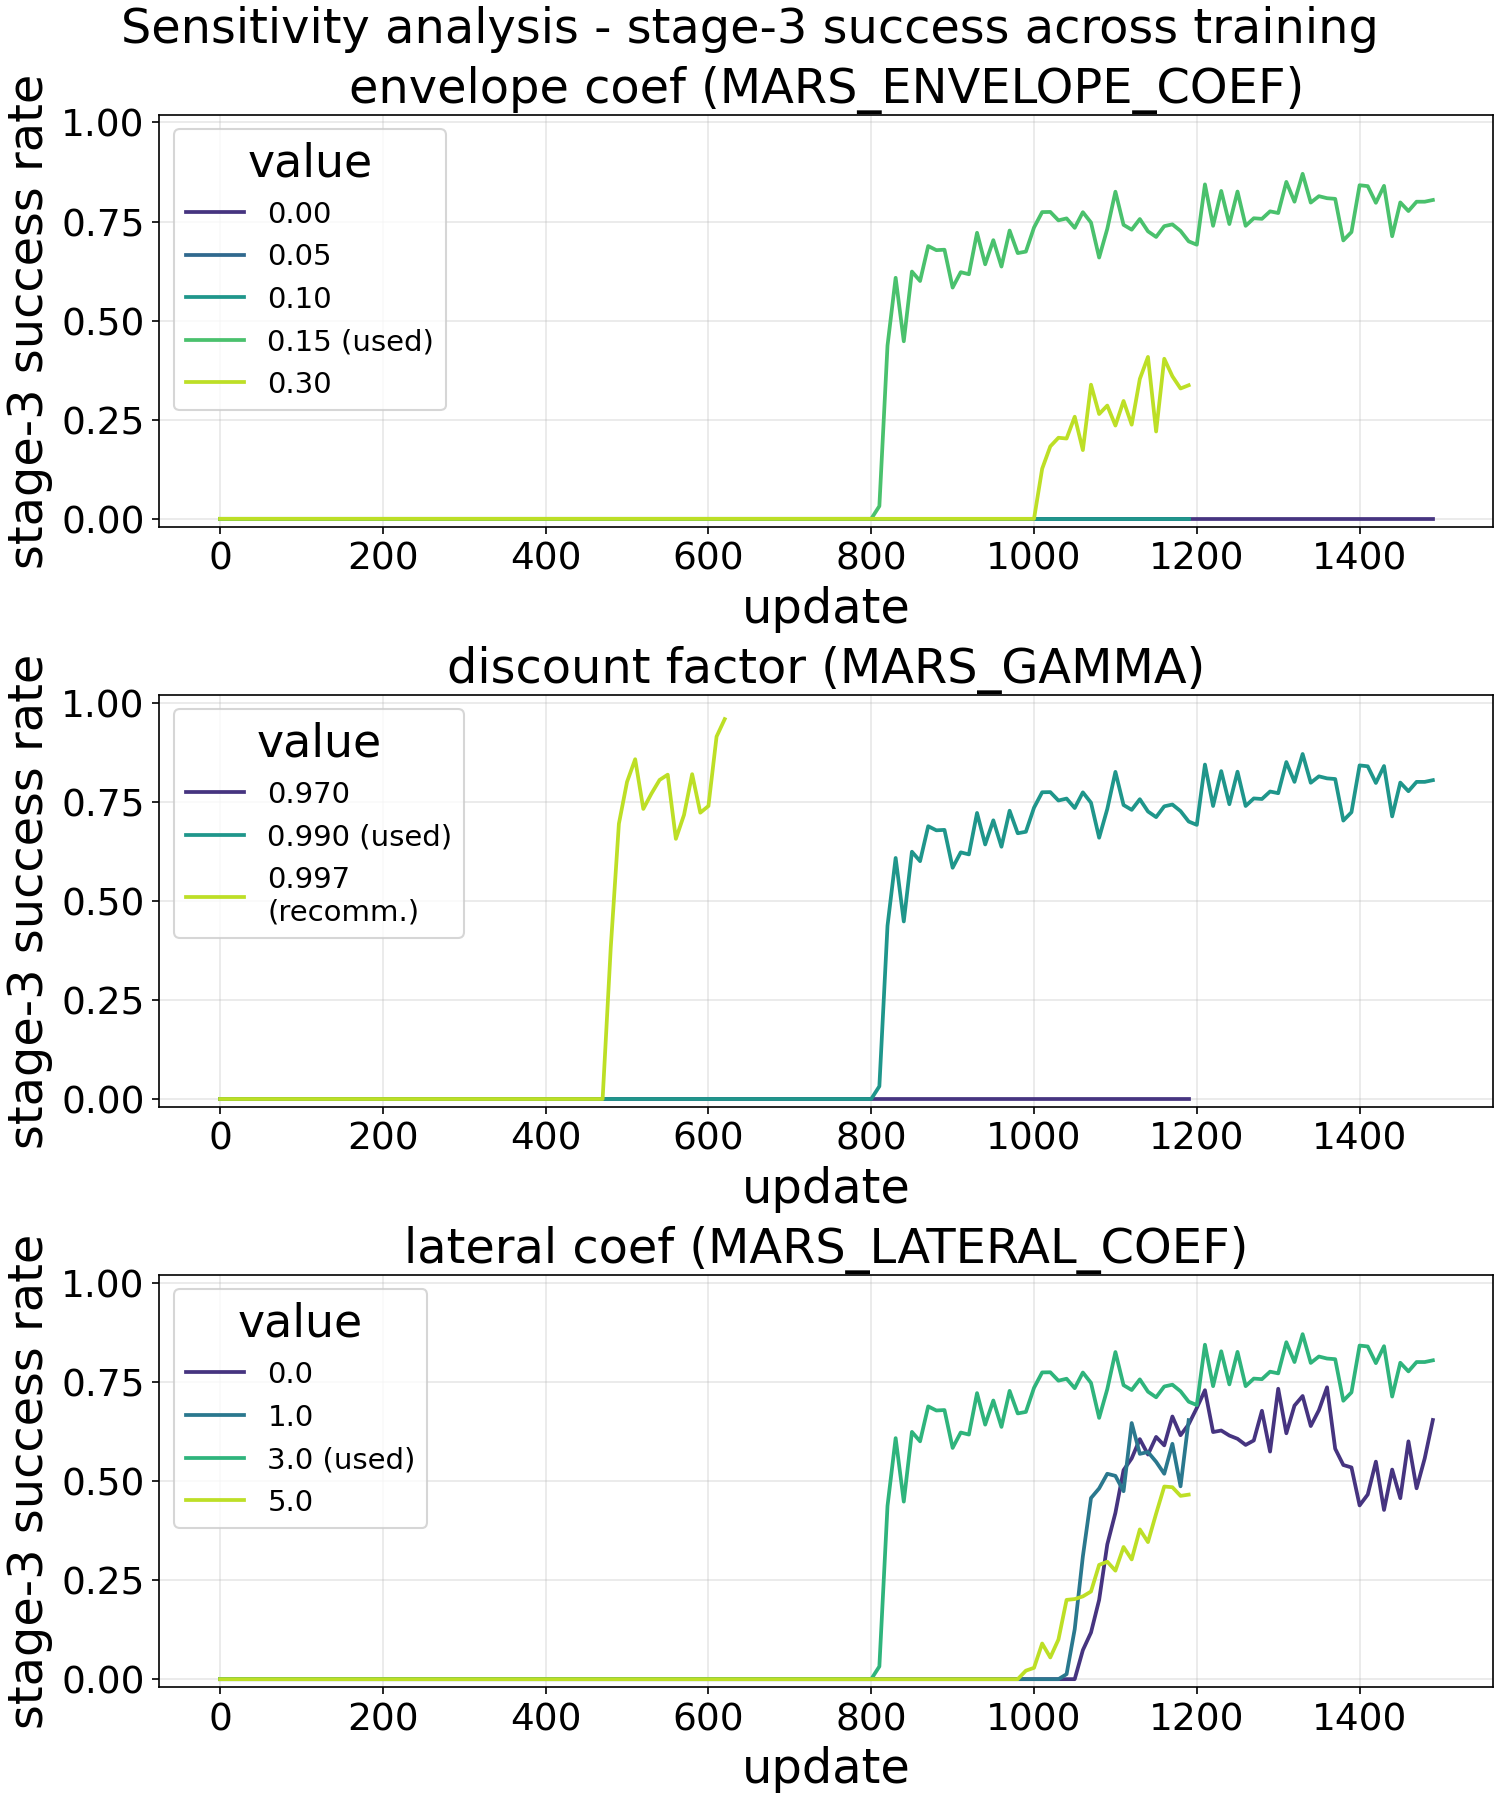
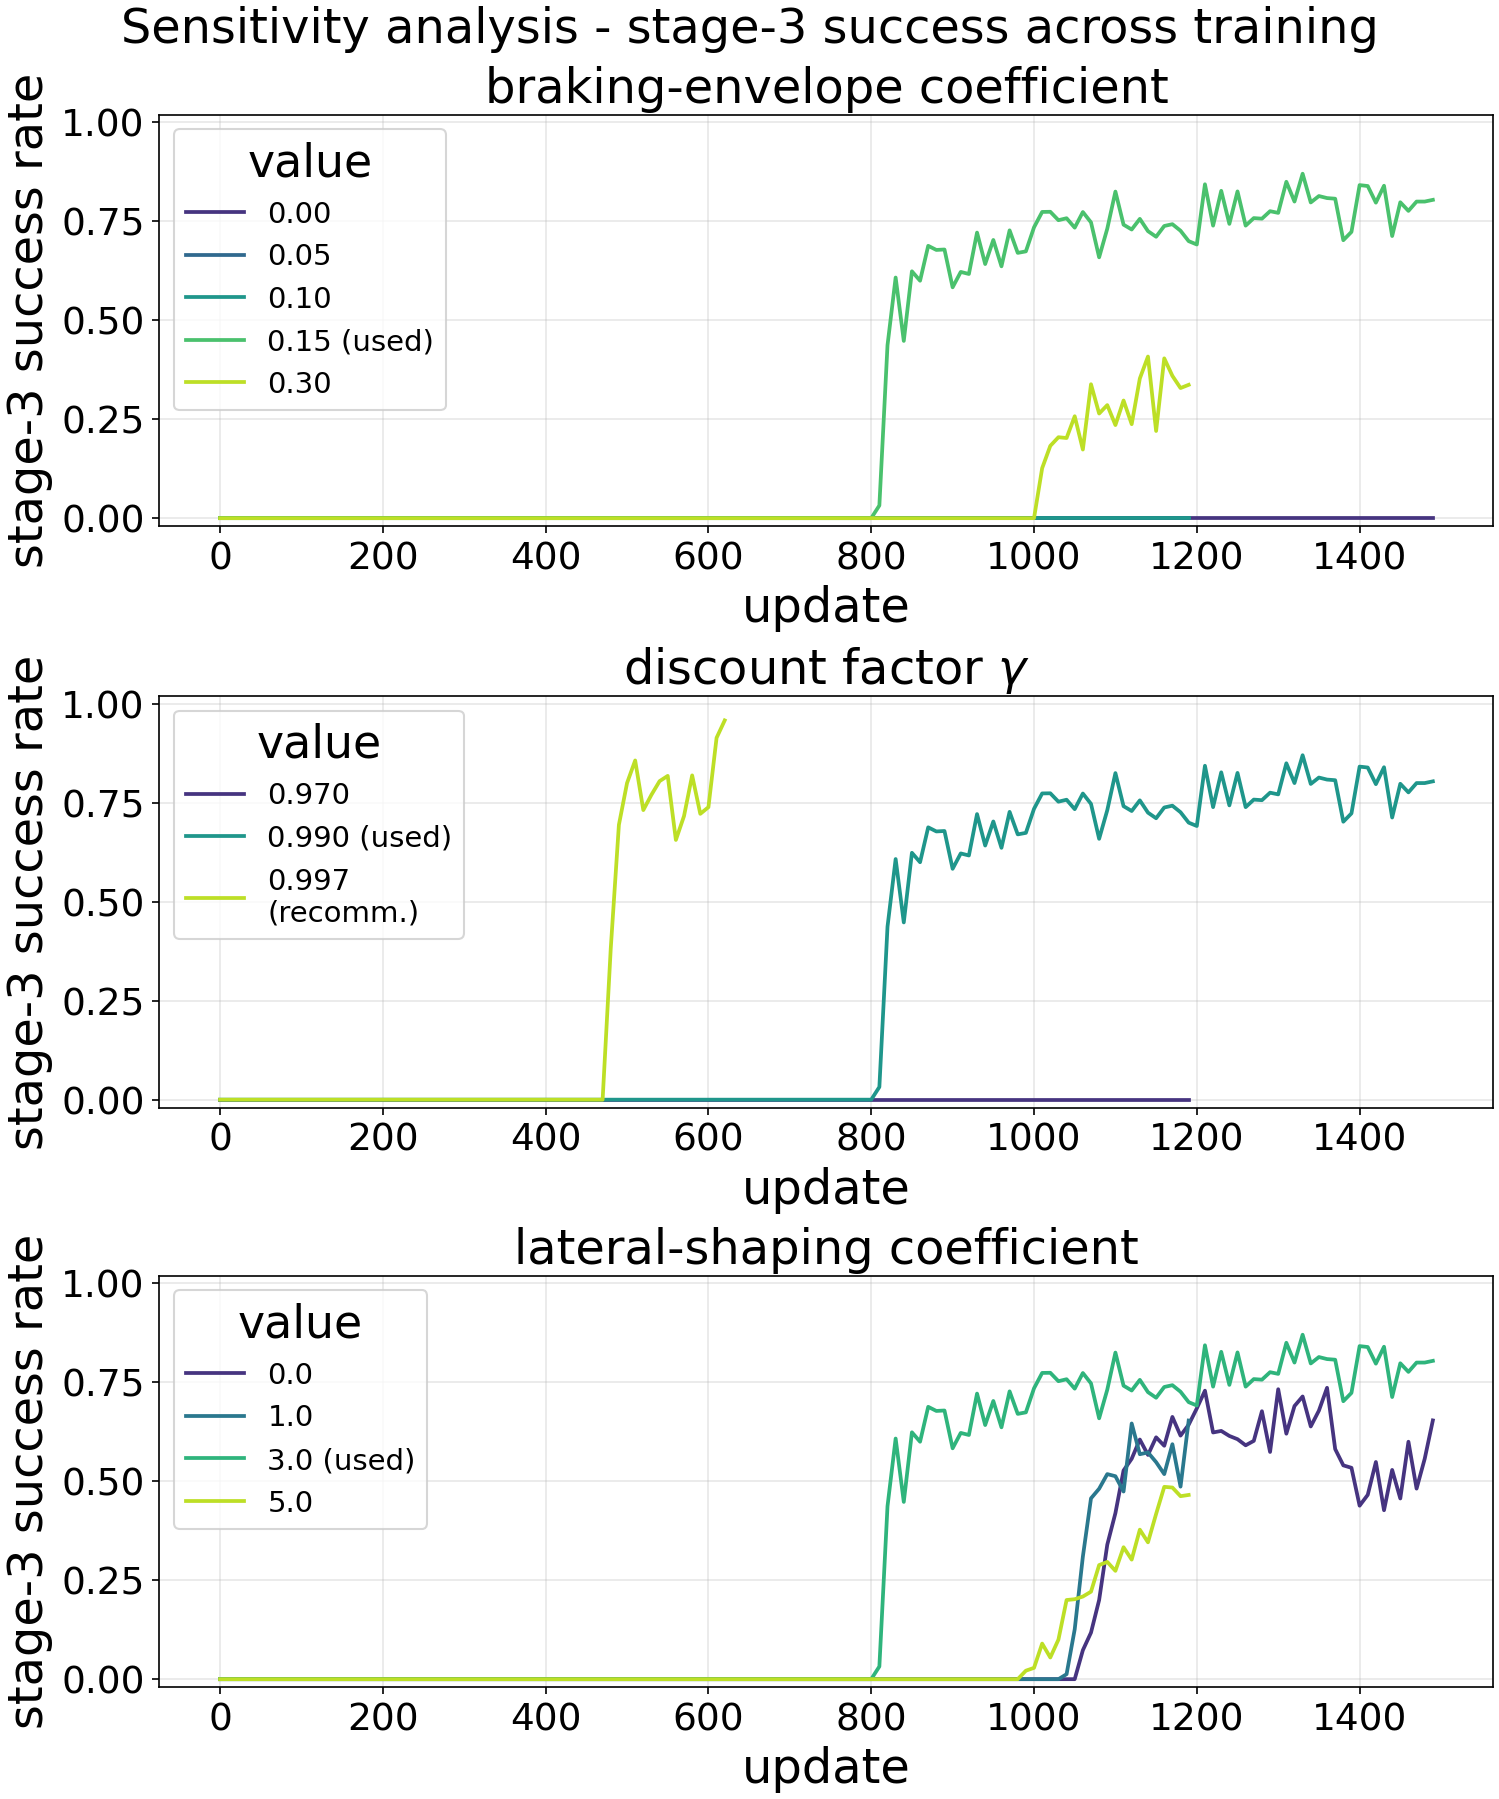
overlaid trajectory on state action map

diff --git a/analysis.py b/analysis.py
@@ -269,7 +269,7 @@ def _obs_vec(alt, vz):
     phys = jnp.array([0.0, 0.0, z, 0.0, 0.0, vz, 1.0, 0.0, 0.0, 0.0, 0.0, 0.0, 0.0, INITIAL_MASS])
     return jnp.concatenate([phys, jnp.zeros(2)])
 
-def state_action_map(params, fname="figures/state_action_map.png", alt_max=150.0):
+def state_action_map(params, fname="figures/state_action_map.png", alt_max=150.0, traj=None):
     alts = np.linspace(0, alt_max, 90)
     vzs = np.linspace(-15, 5, 90)
     AA, VV = np.meshgrid(alts, vzs)
@@ -287,6 +287,18 @@ def state_action_map(params, fname="figures/state_action_map.png", alt_max=150.0
     m = v_env >= vzs.min()
     ax.plot(alt_line[m], v_env[m], color="white", lw=3.0,
             label="braking envelope $-v_{\\mathrm{safe}}(h)$")
+    
+    if traj is not None:
+        import matplotlib.patheffects as pe
+        ta = np.asarray(traj["z"]) - PAD_Z; tv = np.asarray(traj["vz"])
+        inb = (ta >= 0) & (ta <= alt_max) & (tv >= vzs.min()) & (tv <= vzs.max())
+        stroke = [pe.withStroke(linewidth=4.5, foreground="white")]
+        ax.plot(ta[inb], tv[inb], color="black", lw=2.5, zorder=6,
+                path_effects=stroke, label="Stage 3 descent")
+        if inb.any():
+            ax.scatter(ta[inb][-1], tv[inb][-1], color="black", s=55, zorder=7,
+                       path_effects=stroke)
+            
     ax.set_ylim(vzs.min(), vzs.max())
     ax.legend(loc="upper right", framealpha=0.9)
     cb = fig.colorbar(pc, ax=ax, pad=0.02); cb.set_label("commanded mean throttle [%]")
@@ -441,19 +453,19 @@ def sensitivity_curves(fname="figures/sensitivity.png"):
 
     full = "logs/training_log_seed1.csv"
     sweeps = [
-        ("envelope coef (MARS_ENVELOPE_COEF)", [
+        ("braking-envelope coefficient", [
             ("0.00", "logs/training_log_abl_noenvelope_seed1.csv"),
             ("0.05", "logs/training_log_sens_env_005.csv"),
             ("0.10", "logs/training_log_sens_env_010.csv"),
             ("0.15 (used)", full),
             ("0.30", "logs/training_log_sens_env_030.csv"),
         ]),
-        ("discount factor (MARS_GAMMA)", [
+        ("discount factor $\\gamma$", [
             ("0.970", "logs/training_log_sens_gam_097.csv"),
             ("0.990 (used)", full),
             ("0.997\n(recomm.)", "logs/training_log_sens_gam_0997.csv"),
         ]),
-        ("lateral coef (MARS_LATERAL_COEF)", [
+        ("lateral-shaping coefficient", [
             ("0.0", "logs/training_log_abl_nolateral_seed1.csv"),
             ("1.0", "logs/training_log_sens_lat_10.csv"),
             ("3.0 (used)", full),
@@ -753,7 +765,7 @@ if __name__ == "__main__":
     params = load_actor()
     verify_simulator()
     generate_training_plots()
-    state_action_map(params)
+    state_action_map(params, traj=run_flight(params, stage=3, seed=10))
 
     stage_hists = []
 